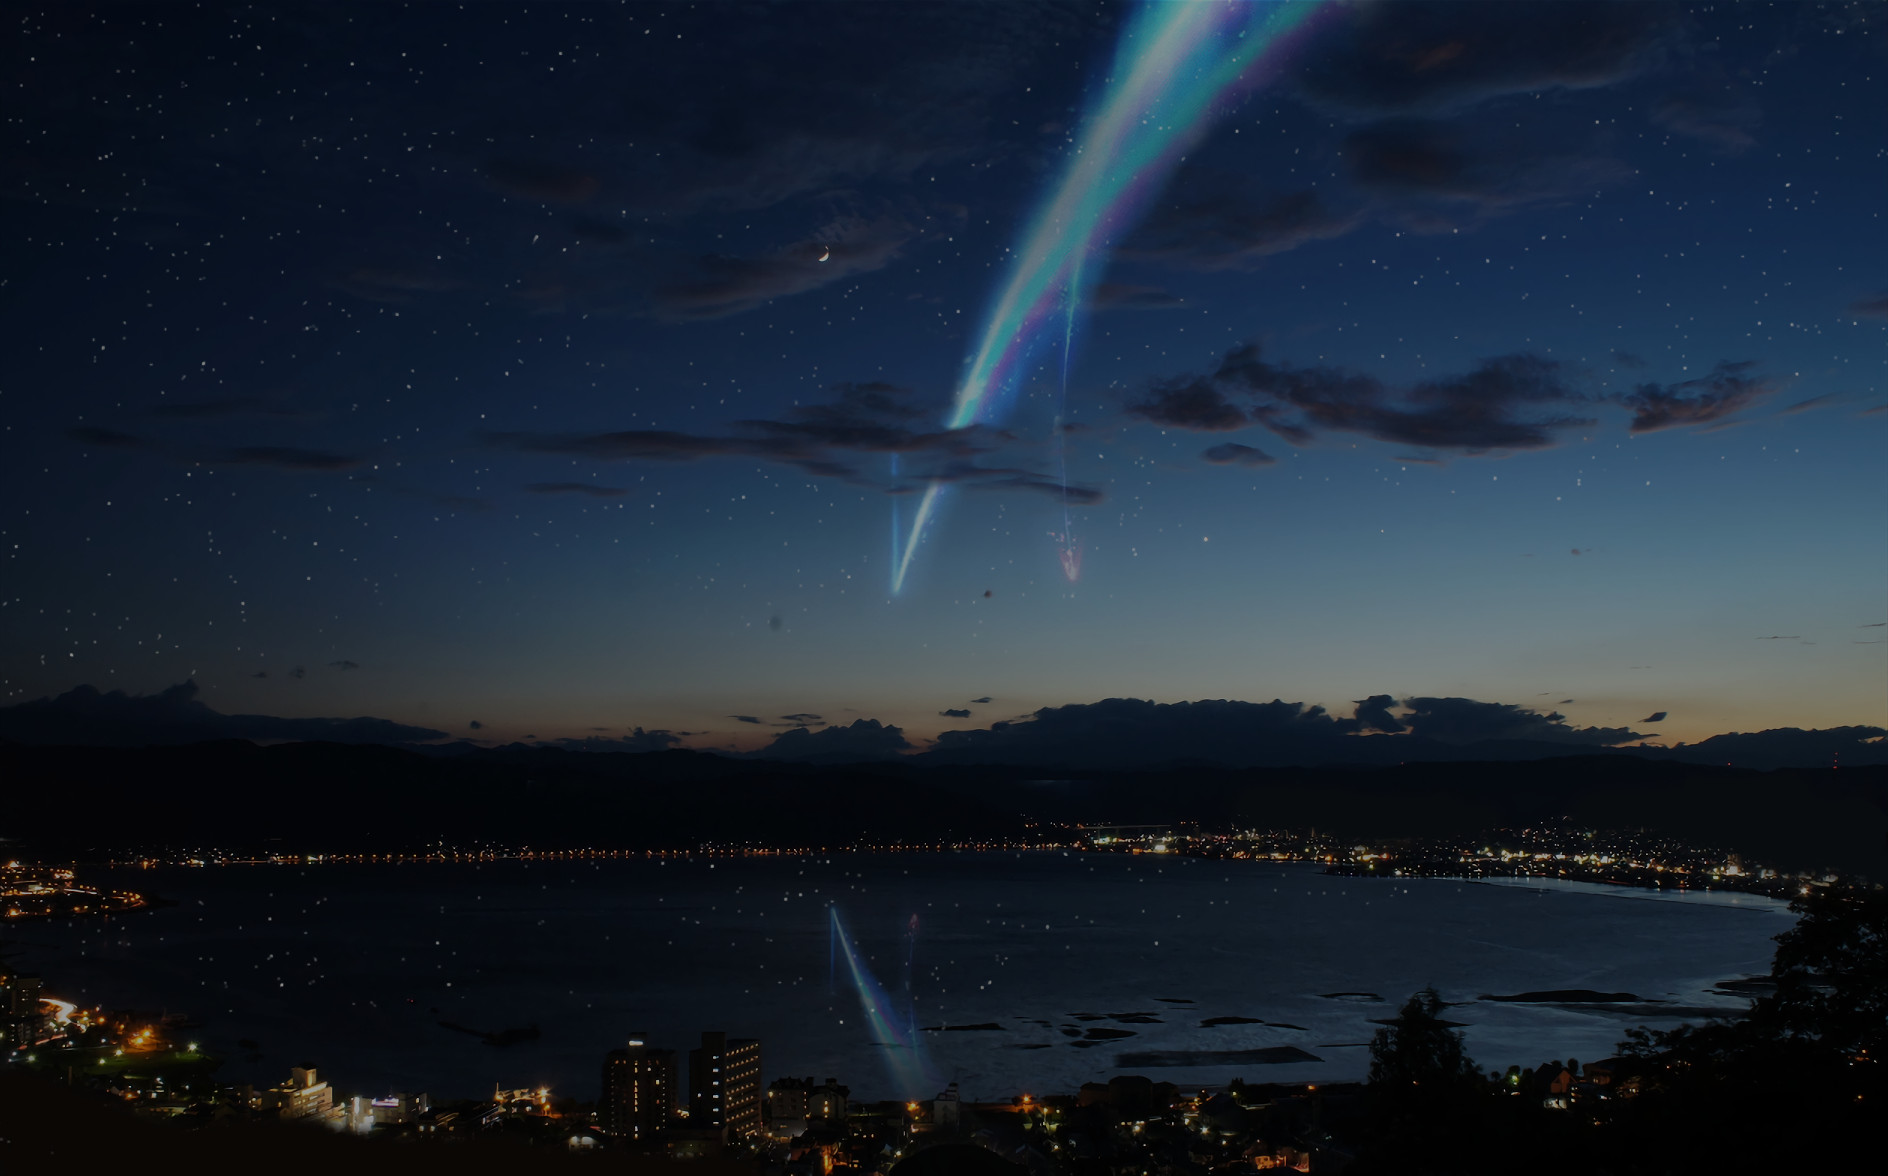
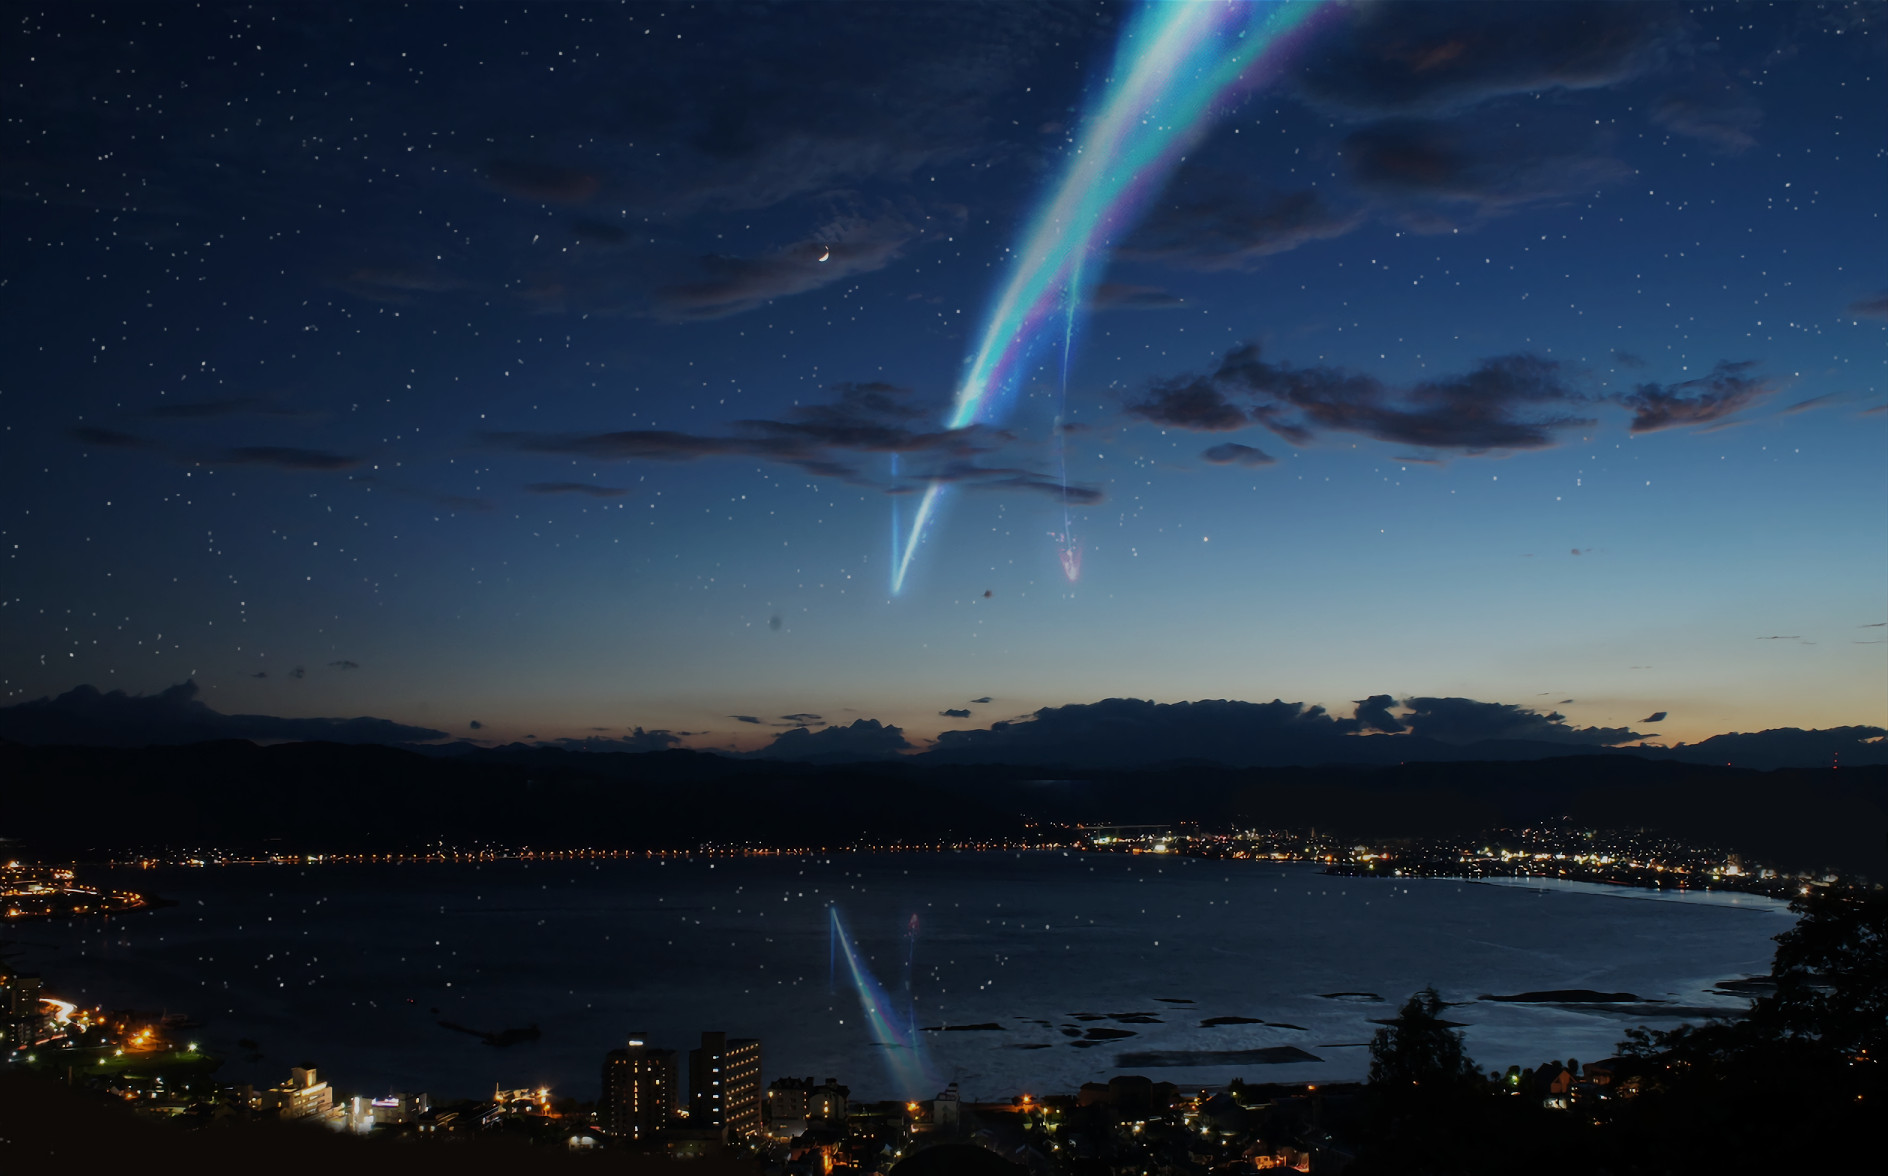
rt - changes to landing page

diff --git a/client/src/pages/index.tsx b/client/src/pages/index.tsx
@@ -1,8 +1,9 @@
 import * as React from 'react';
-import { Box, Button, Flex, Heading, Image, Stack, Text, Link, VStack } from "@chakra-ui/react"
+import { Box, Button, Flex, Heading, Image, Stack, Text, Link, VStack, ButtonGroup, useColorModeValue } from "@chakra-ui/react"
 import { FaGithub } from 'react-icons/fa';
 import { useMeQuery } from '../generated/graphql';
 import router from 'next/router';
+import { ColorModeSwitcher } from '../components/ColorModeSwitcher';
 
 const Home: React.FC<{}> = () => {
   const { data, } = useMeQuery();
@@ -29,24 +30,50 @@ const Home: React.FC<{}> = () => {
         px={{ base: 10 }}
       >
         <Heading>
-          Anime List App
+          <Text
+            as='span'
+            position='relative'
+            _after={{
+              content: "''",
+              width: 'full',
+              height: '10%',
+              position: 'absolute',
+              bottom: -1.5,
+              left: 0,
+              bg: useColorModeValue('blue.100', 'blue.700'),
+              zIndex: -1,
+            }}
+          >
+            T10 - Anime List
+          </Text>
         </Heading>
+
         <Text>
-          This is the current anime list web app (currently in development) for team 10 in CS148-F21
+          Welcome to your personalized anime list experience!
+          Track your favorite animes and the ones you've been planning to watch,
+          using a highly customizable rating system and a profile page where you can
+          show off your taste.
         </Text>
-        <Stack
-          direction={'column'}
-          align={'center'}
-        >
-          <Button as="a" href="https://github.com/ucsb-cs148-f21/project-t10-animelist" leftIcon={<FaGithub />}>
-            GitHub
-          </Button>
-        </Stack>
+
+        <ButtonGroup variant="outline">
+          <Link href="/signup">
+            <Button colorScheme='blue' variant='solid'>
+              Sign up
+            </Button>
+          </Link>
+          <Link href="/login">
+            <Button colorScheme='blue'>
+              Login
+            </Button>
+          </Link>
+        </ButtonGroup>
+
+        <ColorModeSwitcher />
       </VStack>
 
       <Flex flex={2}>
         <Image alt='Anime scenery' objectFit='cover'
-          src={'/images/landing-page-dark.jpg'} />
+          src={useColorModeValue('images/landing-page-light.jpg', '/images/landing-page-dark.jpg')} />
       </Flex>
     </Stack>
   );
